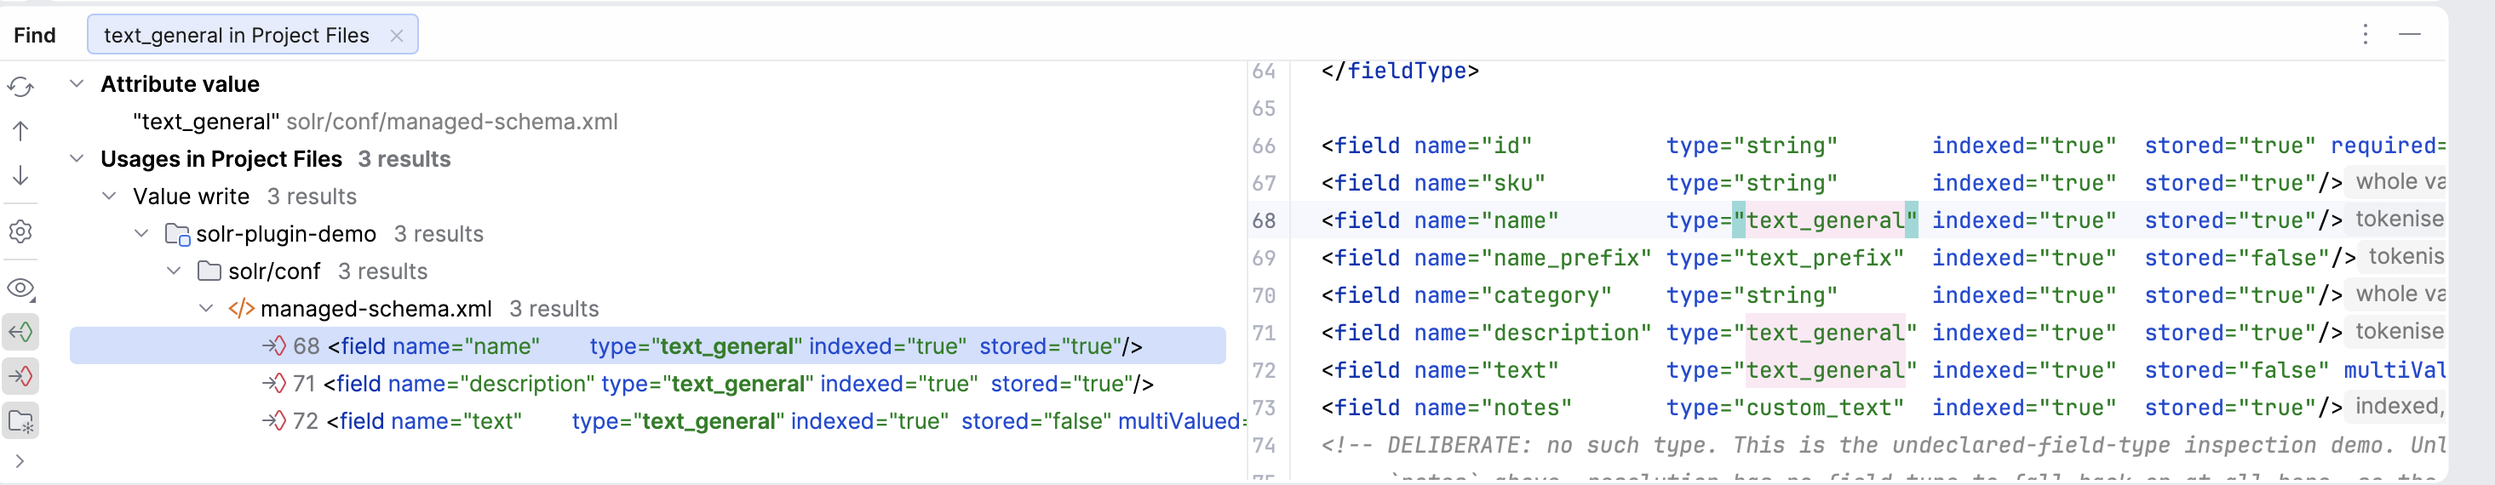
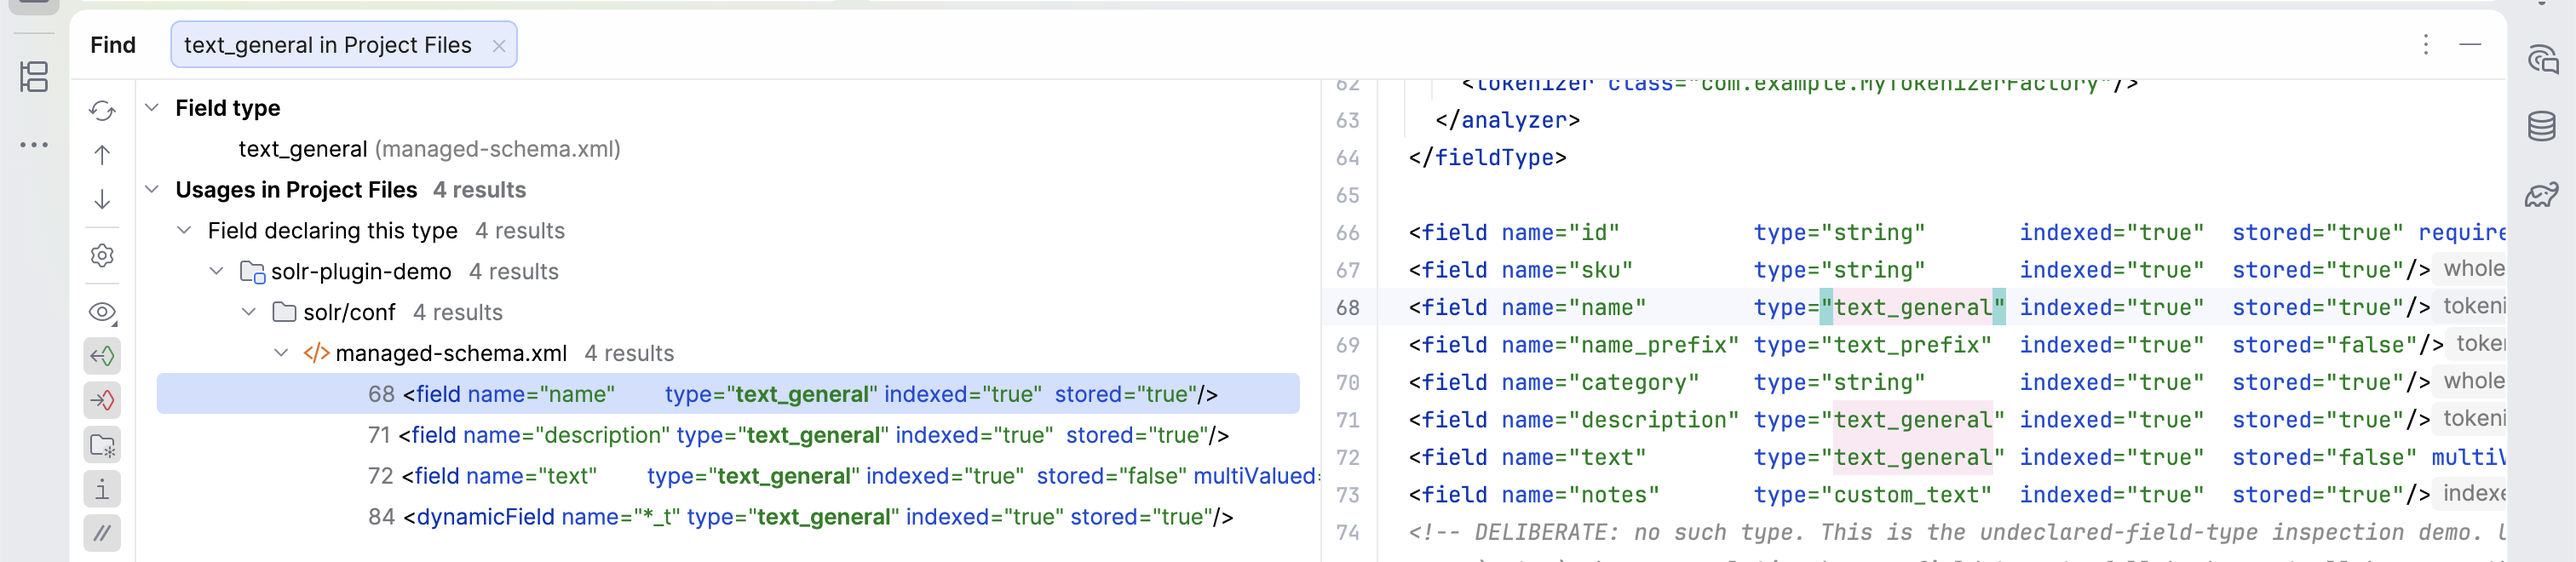
docs: record the sandbox pass, and fix the one thing it found (#127)
* docs: add the checks for the attribute position

DOC-8 covers what this step added — the attribute's own name answering, which was
the caret position saying nothing while the element above it and the value beside
it both did.

DOC-9 covers the schema version, and asks for the half no external documentation
can supply: not what `version` decides in general but what `1.6` decides in this
file. It reuses DOC-6's existing edit to 1.7 rather than adding a second one,
since the flip is the only thing that distinguishes reading the file from
hard-coding its answer.

DOC-10 is the absence, and it is the one that can regress without anyone
noticing. A `copyField`'s `name` is not a field name and must never gain the
field description; it falls through to its element, as before. It also re-checks
DOC-7, which already required that no prose be invented for a factory attribute —
written before this step and still correct after the table that would have
violated it was withdrawn.

* docs: press six checks in the sandbox, and fix what one of them found

The sandbox is drivable through macOS accessibility scripting, so six checks
were pressed rather than described. All six green, and the evidence is in the
pass log: NAV-3 returns four usages from the declaration, NAV-6 reaches the `pf`
naming `body_t`, NAV-7's labels read *Field type* / *Field declaring this type*
and *Dynamic field* / *Handler parameter in solrconfig.xml*, REN-1's dialog says
[…]

diff --git a/src/main/kotlin/org/apache/solr/ide/model/vocabulary/SolrAttributeMeanings.kt b/src/main/kotlin/org/apache/solr/ide/model/vocabulary/SolrAttributeMeanings.kt
@@ -178,8 +178,12 @@ object SolrAttributeMeanings {
         ("schema" to "name") to
             "Identifies the schema for a human reading it. Carries no behaviour — Solr does not " +
             "resolve anything by this name.",
+        // Deliberately terse: the paragraph beneath it, built by [ofSchemaVersion], carries the
+        // explanation *and* what this file's value decides. A sentence here that restated the
+        // general rule would render immediately above its own repetition — which is exactly how a
+        // sandbox pass found it.
         ("schema" to "version") to
-            "Selects the defaults Solr applies to undeclared attributes. See below.",
+            "The schema format version, from <code>1.0</code> to <code>1.7</code>.",
     )
 
     /**

diff --git a/docs/manual-test-suite.md b/docs/manual-test-suite.md
@@ -220,6 +220,27 @@ below.*
       the attribute means. Hover `preserveOriginal` on the same filter: the popup shows the
       catalog default `false` instead of a required marker. An attribute name the catalog does
       not list, or any attribute on a class the catalog does not know, stays silent.
+- [ ] **DOC-8** — **The attribute's own name answers**, which is the caret position that used
+      to say nothing while the element above it and the value beside it both did. Hover each
+      of these attribute *names*: `name` and `type` on a `<field>`; `name` and `class` on the
+      `<fieldType>`; `source` and `dest` on a `<copyField>`. Each explains itself, and the
+      two `copyField` ends read differently from each other.
+- [ ] **DOC-9** — Hover `version` on the demo's `<schema>` root. Two paragraphs: what the
+      attribute decides anywhere, then **what `1.6` decides here** — `docValues` off,
+      `uninvertible` on. The second paragraph is computed from the file, so DOC-6's edit to
+      `1.7` should flip it; check that too while the file is already changed, and undo with
+      the rest.
+- [ ] **DOC-10** — **The absence, which is the one that can regress quietly.** Re-check DOC-7
+      from here: `minGramSize` shows its owner, value type and required marker, the guide links —
+      and **no prose row**. A hand-written *Does* row was drafted for this popup and withdrawn,
+      and the popup already carries a per-attribute guide link, so prose here would duplicate a
+      link that is always current.
+
+      *The other half of this check has no fixture.* A `copyField`'s `name` must never gain the
+      `<field>` description — but the committed demo declares no `<copyField name=…>`, so there
+      is nothing to hover, the same shape of gap NAV-5 records. `SolrAttributeDocumentationTest`
+      covers it headlessly; either the demo grows one or this stays a note.
+
 - [ ] 📸 **Re-capture `docs/images/02-quick-doc-field.png`** at DOC-1 — caret inside
       `name="category"` at line 70, F1, cropped to the popup **including the
       `uninvertible` row**. **Check the catalog entry before shooting:** this one waits on
@@ -435,8 +456,75 @@ a pass was started and abandoned is worth more than a gap.
 | | 4b9cbf9 | | full suite | *pending* | the first pass that can close DOC-5 and COMP-6, and the one the outstanding screenshots come from |
 | 2026-08-03 | fab0922 | Claude | full suite as it stood at that commit | **passed** | superseded by the row below, which covers the same checks plus the two that shipped after it |
 | 2026-08-04 | c924f43 | Claude | full suite | **passed** | every check green, including DOC-7 and all three halves of the ordering INSP-7. Scope notes below |
+| 2026-08-06 | 88a9679 | Claude | ACT-1, HINT-1…5, BASE-1, BASE-2, NAV-1, NAV-2, NAV-3, NAV-4, NAV-5, NAV-6, NAV-7, REN-1, REN-2, REN-4, REN-5, DOC-1, DOC-4, DOC-7, DOC-8, DOC-9, COMP-5, CAT-1, INSP-1 | **not completed** | twenty-seven checks pressed and green; the rest were not. Driven through macOS accessibility scripting rather than by hand — see below |
 
-**About these two rows.** The first covers the suite as it stood before
+**The 2026-08-06 row is deliberately *not completed*, and the scope is the point.** Thirteen
+checks were pressed, all thirteen green:
+
+- **ACT-1 and HINT-1…5** — the plugin is alive on open and every hint renders inline. `string`
+  fields read *whole value, case-sensitive*; `text_general` ones *tokenised, case-insensitive*;
+  `name_prefix` adds *prefix-capable*. Both of HINT-5's silences are visible together: `notes`
+  keeps its storage-shape phrases and drops the match claim, while `legacy` — whose type nothing
+  declares — shows no hint at all.
+- **NAV-1, NAV-2, NAV-4, NAV-5** — Go to Declaration lands where it should from every reference
+  kind: a field's `type` reaches the `fieldType` at 31:20, a `copyField`'s two ends reach 68:16
+  and 72:16, a `qf` name in `solrconfig.xml` crosses the file boundary to 71:16, and a filter's
+  `words=` opens `stopwords.txt`.
+- **INSP-1** — the planted `manufacturer` copy rule offers exactly the six fixes catalog entry 4
+  predicts: `*_t`, `category`, `description`, `legacy`, `name`, `notes`. `sku`, `id`, `text` and
+  `name_prefix` are absent, which is the closest-spelling ranking doing the choosing rather than
+  the list being arbitrary — and `*_t` leading it is the alphabetical tiebreak the entry already
+  explains. Pressed on the planted rule, so no edit and no undo. Image 4 re-shot from it.
+- **COMP-5 and CAT-1** — completion carries what the catalog and the model know. A field's `type=`
+  offers the four declared types *with what each one matches attached* — and `custom_text`, whose
+  chain names an unrecognised factory, falls back to naming its class rather than claiming a match,
+  the same silence HINT-5 shows. On a `<fieldType>`, `class=` offers field type classes; on a
+  `<filter>`, factories — including the Japanese and Korean ones that only appear because
+  `solr-analysis-extras` is resolved. The two class kinds never mix.
+- **DOC-1** — the field popup carries what no external documentation can: *Matches: whole value,
+  case-sensitive*, and a property table whose **From** column separates *on this field*, *from the
+  field type* and *Solr default*.
+- **BASE-1 / BASE-2** — the schema reports exactly two findings and `solrconfig.xml` reports none,
+  which is the baseline every later check restores to.
+- **REN-4 / REN-5** — renaming `*_t` to `*_txt` left the `pf` naming `body_t` exactly as written,
+  and `solrconfig.xml` went from zero findings to one: the unknown-field inspection reporting the
+  name the rename orphaned. That pair is the decision made visible. Undone afterwards.
+- **DOC-4 / DOC-7 / DOC-8** — the class *value* answers with its Javadoc summary and *Used by 3
+  field types*; the `class` attribute *name* now answers for itself rather than deferring to its
+  element; and `minGramSize` shows owner, type and required marker with no prose row.
+
+- **NAV-3** — the `text_general` declaration returns four usages: `name`, `description`, `text`
+  and the `*_t` dynamic field. Four, not the three an older screenshot caption promised.
+- **NAV-6** — `<dynamicField name="*_t">` returns one usage, the `pf` at `solrconfig.xml:31`,
+  highlighted at `body_t` alone. That gesture returned an empty list before declarations became
+  targets.
+- **NAV-7** — the labels. The header reads **Field type** over `text_general` and **Dynamic
+  field** over `*_t`; the groups read **Field declaring this type** and **Handler parameter in
+  solrconfig.xml**. Neither *Solr Declaration Target* nor *Unclassified* appears anywhere.
+- **REN-1** — the rename dialog reads *Rename field 'category' and its usages to:*, which is the
+  same description NAV-7 checks, reached by a second refactoring.
+- **REN-2** — renaming to `product_category` updated `solrconfig.xml:28`'s `qf` across the file
+  boundary; undo restored both files, and the demo is clean on disk.
+- **DOC-9** — `version` answers with the general rule and then *At 1.6, `docValues` defaults
+  off; `uninvertible` defaults on; `autoGeneratePhraseQueries` defaults off.*
+
+**DOC-9 also found a defect, which is the argument for pressing things.** The popup rendered its
+opening sentence twice — the structural table's entry for `version` restated what the paragraph
+beneath it already said. Every headless assertion passed either way, because each checked for a
+substring rather than for the whole. Fixed in the same change that records this row.
+
+**A second finding, from DOC-7.** The factory attribute popup already carries a *per-attribute*
+Reference Guide link — `minGramSize` on solr.apache.org — alongside the per-class one. That was not
+known when the hand-written prose table was drafted, and it settles the question the withdrawal
+turned on: the prose would have duplicated a link that is already there, already per-attribute, and
+always current.
+
+**What was not pressed:** ACT-2, INSP-2…9, COMP-1, COMP-2, COMP-3, COMP-4, COMP-6, CAT-2, DOC-2, DOC-3, DOC-5, DOC-6,
+DOC-10, REN-3, and the screenshot items other than image 7. None of them is known to be broken; none was looked at. The
+boxes above stay unticked for that reason — a partial tick reads as a pass to everyone who did not
+run it.
+
+**About the two rows above this note.** The first covers the suite as it stood before
 `SolrAnalyzerChainOrderInspection` and the per-attribute hover landed; the second re-ran BASE
 against them and closed the checks they brought. Three things still qualify the second row.
 

diff --git a/docs/design/pending/2026-08-06-attribute-meanings/design.md b/docs/design/pending/2026-08-06-attribute-meanings/design.md
@@ -104,6 +104,18 @@ The last bound has a limit worth stating: an attribute name that genuinely means
 things on two factories cannot be expressed, and would have to be keyed by class if one ever turns
 up. None does today.
 
+**A sandbox pass then settled it further than the argument had.** Hovering `minGramSize` shows the
+popup already carries a *per-attribute* Reference Guide link — `minGramSize` on solr.apache.org —
+beside the per-class one. That was not known while the table was being drafted. The prose would
+therefore have duplicated a link that is already there, already specific to the attribute, and
+always current, which is the exact trade the FAQ's rule is about.
+
+**What would close it properly is a generated source.** The guide is ALv2 AsciiDoc with per-filter
+pages carrying attribute tables; a build-time extraction would put this on the same footing as the
+catalog — mechanical, refreshed per line, no second body of prose to maintain. The cost is a new kind
+of build input, since the guide is not a Maven artifact. That is a step of its own, and the decision
+between it and *leave the link to do the work* has not been made.
+
 ## Testing strategy
 
 Plain JUnit 4 for the table itself — it is a pure function from a pair of strings to prose, and
